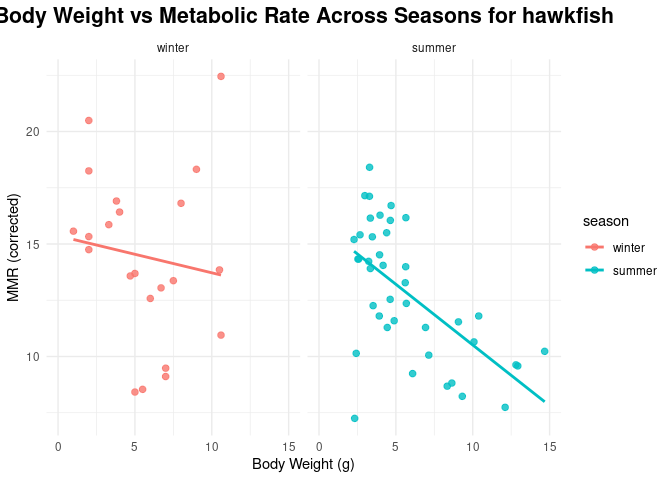
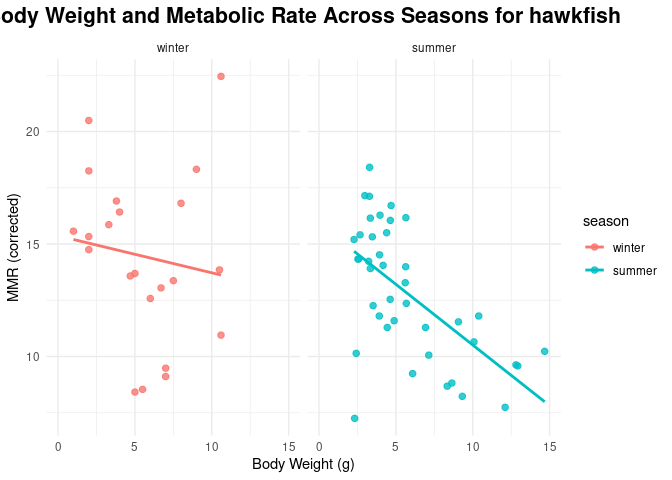
Added ggsave

Changed region(s): [[0.0, 0.0, 0.9375, 0.0625]]

diff --git a/memo/memo.md b/memo/memo.md
@@ -79,18 +79,19 @@ heatwaves_coral_fish_clean <- heatwaves_coral_fish |>
 ``` r
 heatwave_vs_mmr <- heatwaves_coral_fish_clean |>
   filter(treatment_new != "wild") |>
-  ggplot(aes(x = treatment_new, y = max_metabolic_rate)) +
-  geom_boxplot(fill = "#6BAED6") +
+  ggplot(aes(x = treatment_new, y = max_metabolic_rate, fill = season)) +
+  geom_boxplot() +
   scale_x_discrete(labels = function(x) paste0(x, "°C")) +
   labs(
     title = "Maximum Metabolic Rate by Heatwave Treatment",
     subtitle = "Fish MMR is lowest at 28°C heatwaves and peaks at 31°C",
     x = "Treatment (Heatwave Temperature)",
-    y = "Maximum Metabolic Rate (MMR)"
+    y = "Maximum Metabolic Rate (MMR)",
+    fill = "Season"
   )
 
 # Save the plot
-ggsave("fig_heatwave_boxplot.png", heatwave_vs_mmr, width = 7, height = 5)
+ggsave("fig_mmr_vs_heatwave_boxplot.png", heatwave_vs_mmr, width = 7, height = 5)
 ```
 
     ## Warning: Removed 3 rows containing non-finite outside the scale range
@@ -153,9 +154,17 @@ ggplot(season_means, aes(x = season, y = mean_mmr, group = 1)) +
     ## Call `lifecycle::last_lifecycle_warnings()` to see where this warning was
     ## generated.
 
-![](memo_files/figure-gfm/metabolic-rate-per-season-1.png)<!-- --> \###
-Plot 4 draft: Time faceted: Seasonal graph looking an body weight vs
-metabolic rate
+![](memo_files/figure-gfm/metabolic-rate-per-season-1.png)<!-- -->
+
+``` r
+#save plot
+ggsave("fig_polar_plot_metabolic_rate_per_season.png", temp_energy_season, width = 7, height = 5)
+```
+
+    ## Warning: Removed 12 rows containing missing values or values outside the scale range
+    ## (`geom_point()`).
+
+### Plot 4 draft: Time faceted: Seasonal graph looking an body weight vs metabolic rate
 
 ``` r
 df <- read.csv("../data/VanWert_etal_2023_hawkfish.csv")
@@ -170,7 +179,7 @@ ggplot(df, aes(x = bw_g, y = mmr_corrected, color = season)) +
   xlim(0,15)+
   theme_minimal() +
   labs(
-    title = "Body Weight vs Metabolic Rate Across Seasons for hawkfish",
+    title = "Body Weight and Metabolic Rate Across Seasons for hawkfish",
     x = "Body Weight (g)",
     y = "MMR (corrected)"
   ) +
@@ -189,6 +198,14 @@ ggplot(df, aes(x = bw_g, y = mmr_corrected, color = season)) +
     ## (`geom_point()`).
 
 ![](memo_files/figure-gfm/body-weight-mr-per-season-1.png)<!-- -->
+
+``` r
+#save plot 
+ggsave("fig_body_weight_and_metabolic_rate.png", temp_energy_season, width = 7, height = 5)
+```
+
+    ## Warning: Removed 12 rows containing missing values or values outside the scale range
+    ## (`geom_point()`).
 
 ### Plot 5:Absolute Aerobic Scope vs Heatwave Treatment
 
@@ -219,10 +236,11 @@ aerobic_scope_treatment <- heatwaves_coral_fish_clean |>
              y = absolute_aerobic_scope,
              fill = season)) +
   geom_boxplot(position = position_dodge(width = 0.8)) +
+  scale_x_discrete(labels = function(x) paste0(x, "°C")) +
   labs(
     title = "Absolute Aerobic Scope Across Heatwave Treatments",
     subtitle = "Lower aerobic scope indicates reduced energy available for activity",
-    x = "Heatwave Treatment (°C)",
+    x = "Treatment (Heatwave Temperature)",
     y = "Absolute Aerobic Scope",
     fill = "Season"
   ) +
@@ -234,9 +252,18 @@ aerobic_scope_treatment
     ## Warning: Removed 17 rows containing non-finite outside the scale range
     ## (`stat_boxplot()`).
 
-![](memo_files/figure-gfm/aerobic_scope_heatwaves-1.png)<!-- --> \#Plot
-6: Boxplot: Aerobic Scope Across Seasons \#Alt Text: Scatterplot that
-compares absolute aerobic scope between summer and winter hawkfish.
+![](memo_files/figure-gfm/aerobic_scope_heatwaves-1.png)<!-- -->
+
+``` r
+# Save the plot
+ggsave("fig_aerobic_vs_heatwave_boxplot.png", aerobic_scope_treatment, width = 7, height = 5)
+```
+
+    ## Warning: Removed 17 rows containing non-finite outside the scale range
+    ## (`stat_boxplot()`).
+
+\#Plot 6: Boxplot: Aerobic Scope Across Seasons \#Alt Text: Scatterplot
+that compares absolute aerobic scope between summer and winter hawkfish.
 Summer fish (pink points) show values mostly between 4 and 14. Winter
 fish (teal points) show higher overall aerobic scope with points ranging
 from about 7 to 20. This plot makes it clear that Winter fish gerneally
